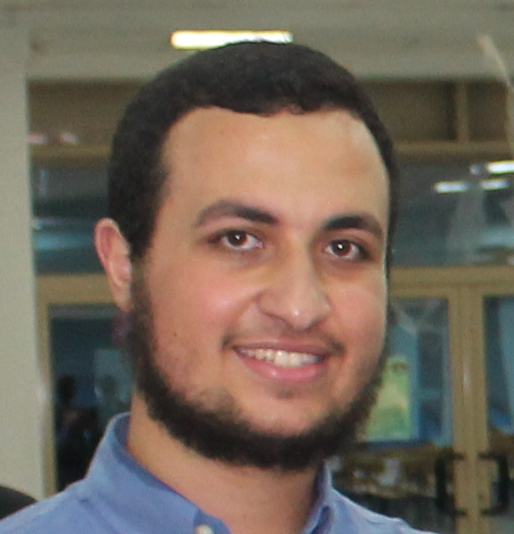
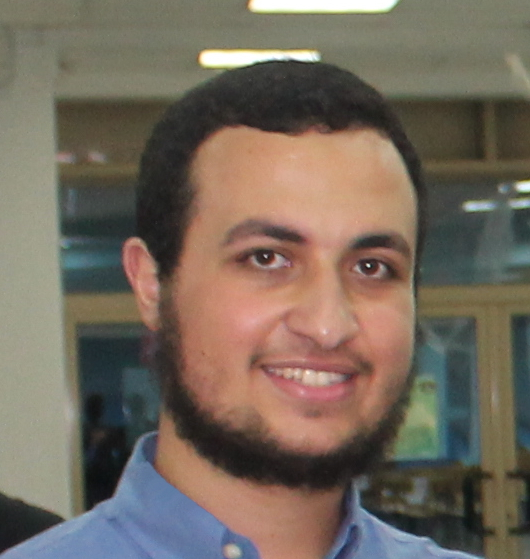
Change picture + remove bottom cards on main page

diff --git a/about.html b/about.html
@@ -1,146 +1,154 @@
 ---
-layout: page
-title: kady | about me
-permalink: /about/
+ layout: page
+ title: kady | about me
+ permalink: /about/
 ---
 
 <div class='row'>
-  <div id='about-card' class='col-md-12 shadow-z-2'>
-      <div class='col-md-4 about-info'>
-        <h3 class='sub-header'>Who ?</h5>
-          <p>
-            I am Abdelrahman Hesham Elkady, studying Computer science and engineering in the <a href="http://guc.edu.eg/" class="no-underline">German University in cairo</a>
-            , Juniour web and mobile developer, Mainly interested in Android development and python backended web apps .
-          </p>
-      </div>
-      <!-- /about-info -->
+    <div id='about-card' class='col-md-12 shadow-z-2'>
+        <div class='col-md-4 about-info'>
+            <h3 class='sub-header'>Who ?</h5>
+            <p>
+                Hello, I am Abdelrahman Hesham Elkady, studying Computer Science and Engineering in the
+                <a href="http://guc.edu.eg/" class="no-underline">German University in cairo</a>. Junior Web developer and
+                Native Android developer.
 
-      <div class='col-md-4 about-image'>
-        <img src='{{site.baseurl}}/assets/images/headshot.jpg' />
-      </div>
+            </p>
+        </div>
+        <!-- /about-info -->
 
-      <div class='col-md-4 about-info'>
-        <h3 class='sub-header'>Personal information</h5>
-          <table class='presonal-info-table'>
-            <tr>
-              <th>Name :</th>
-              <td>Abdelrahman Hesham Elkady</td>
-            </tr>
-            <tr>
-              <th>Age :</th>
-              <td id='age-row'></td>
-            </tr>
-            <tr>
-              <th>Hometown : </th>
-              <td>Cairo</td>
-            </tr>
-            <tr>
-              <th>E-mail : </th>
-              <td>elkadyabdelrahman@gmail.com</td>
-            </tr>
-          </table>
-      </div>
-  </div>
-  <!-- /about-card -->
+        <div class='col-md-4 about-image'>
+            <img src='{{site.baseurl}}/assets/images/headshot.jpg'/>
+        </div>
+
+        <div class='col-md-4 about-info'>
+            <h3 class='sub-header'>Personal information</h5>
+            <table class='presonal-info-table'>
+                <tr>
+                    <th>Name :</th>
+                    <td>Abdelrahman Hesham Elkady</td>
+                </tr>
+                <tr>
+                    <th>Age :</th>
+                    <td id='age-row'></td>
+                </tr>
+                <tr>
+                    <th>Hometown :
+                    </th>
+                    <td>Cairo</td>
+                </tr>
+                <tr>
+                    <th>E-mail :
+                    </th>
+                    <td>elkadyabdelrahman@gmail.com</td>
+                </tr>
+            </table>
+        </div>
+    </div>
+    <!-- /about-card -->
 </div>
 <!-- /row -->
 
 <div class='row section'>
-  <div class='col-md-6'>
-    <div class='icon-based-card shadow-z-1'>
-      <h1 class='text-center card-icon'>
-        <i class="material-icons icon-2x">work</i>
-      </h1>
+    <div class='col-md-6'>
+        <div class='icon-based-card shadow-z-1'>
+            <h1 class='text-center card-icon'>
+                <i class="material-icons icon-2x">work</i>
+            </h1>
 
-      <h3 class='card-title text-center'>
-        Hire me
-      </h3>
+            <h3 class='card-title text-center'>
+                Hire me
+            </h3>
 
-      <p class='card-description'>
-        WOW ! , You got a job for me ? Here is my resume, I will be very happy to get in contact with you
-      </p>
+            <p class='card-description'>
+                WOW ! , You got a job for me ? Here is my resume, I will be very happy to get in contact with you
+            </p>
 
-      <a href='{{site.baseurl}}/assets/files/resume.pdf' class='btn btn-success btn-icon'>
-        <span class='mdi-file-file-download'></span> My Resume</a>
+            <a href='{{site.baseurl}}/assets/files/resume.pdf' class='btn btn-success btn-icon'>
+                <span class='mdi-file-file-download'></span>
+                My Resume</a>
+
+        </div>
+    </div>
+
+    <div class='col-md-6'>
+        <div class='icon-based-card shadow-z-1'>
+            <h1 class='text-center card-icon'>
+                <i class="material-icons icon-2x">remove_red_eye</i>
+            </h1>
+
+            <h3 class='card-title text-center'>
+                Stalker ?
+            </h3>
+
+            <p class='card-description'>
+                Ok This is one section for stalkers ! , If you need more accounts/connections then take a look here !
+            </p>
+
+            <a href='javascript:void(0)' class='btn btn-success' data-toggle='modal' data-target='#stalk-modal'>
+                Stalk !</a>
+
+        </div>
+        <!-- /icon-based-card -->
 
     </div>
-  </div>
-
-  <div class='col-md-6'>
-    <div class='icon-based-card shadow-z-1'>
-      <h1 class='text-center card-icon'>
-        <i class="material-icons icon-2x">remove_red_eye</i>
-      </h1>
-
-      <h3 class='card-title text-center'>
-        Stalker ?
-      </h3>
-
-      <p class='card-description'>
-        Ok This is one section for stalkers ! , If you need more accounts/connections then take a look here !
-      </p>
-
-      <a href='javascript:void(0)' class='btn btn-success' data-toggle='modal' data-target='#stalk-modal'> Stalk !</a>
-
-    </div>
-    <!-- /icon-based-card -->
-
-  </div>
 </div>
 <!-- /row section-->
 
 <!-- Modal -->
 <div class='modal fade' id='stalk-modal' tabindex='-1' role='dialog' aria-labelledby='Label' aria-hidden='true'>
-  <div class='modal-dialog'>
-    <div class='modal-content'>
-      <div class='modal-header'>
-        <button type='button' class='close' data-dismiss='modal' aria-label='Close'>
-          <span aria-hidden='true'><i class='mdi-navigation-close'></i></span>
-        </button>
-        <h4 class='modal-title' id='myModalLabel'>Stalkers Appreciation !</h4>
-      </div>
-      <div class='modal-body'>
-        <div class='centered'>
-          <ul class='icon-list'>
-            <li class='list-icon'>
-              <a href='https://www.facebook.com/{{site.facebook_account}}'>
-                <img src='{{site.baseurl}}/assets/icons/facebook500.png' alt='facebook'>
-              </a>
-            </li>
+    <div class='modal-dialog'>
+        <div class='modal-content'>
+            <div class='modal-header'>
+                <button type='button' class='close' data-dismiss='modal' aria-label='Close'>
+                    <span aria-hidden='true'>
+                        <i class='mdi-navigation-close'></i>
+                    </span>
+                </button>
+                <h4 class='modal-title' id='myModalLabel'>Stalkers Appreciation !</h4>
+            </div>
+            <div class='modal-body'>
+                <div class='centered'>
+                    <ul class='icon-list'>
+                        <li class='list-icon'>
+                            <a href='https://www.facebook.com/{{site.facebook_account}}'>
+                                <img src='{{site.baseurl}}/assets/icons/facebook500.png' alt='facebook'>
+                            </a>
+                        </li>
 
-            <li class='list-icon'>
-              <a href='http://steamcommunity.com/id/{{site.steam_account}}'>
-                <img src='{{site.baseurl}}/assets/icons/steam.png' alt='steam'>
-              </a>
-            </li>
+                        <li class='list-icon'>
+                            <a href='http://steamcommunity.com/id/{{site.steam_account}}'>
+                                <img src='{{site.baseurl}}/assets/icons/steam.png' alt='steam'>
+                            </a>
+                        </li>
 
-            <li class='list-icon'>
-              <a href='https://instagram.com/{{site.instagram_account}}'>
-                <img src='{{site.baseurl}}/assets/icons/instagram.png' alt='instagram'>
-              </a>
-            </li>
+                        <li class='list-icon'>
+                            <a href='https://instagram.com/{{site.instagram_account}}'>
+                                <img src='{{site.baseurl}}/assets/icons/instagram.png' alt='instagram'>
+                            </a>
+                        </li>
 
-            <li class='list-icon'>
-              <a href='http://stackoverflow.com/users/{{site.stackoverflow_id}}'>
-                <img src='{{site.baseurl}}/assets/icons/stackoverflow.png' alt='stackoverflow'>
-              </a>
-            </li>
+                        <li class='list-icon'>
+                            <a href='http://stackoverflow.com/users/{{site.stackoverflow_id}}'>
+                                <img src='{{site.baseurl}}/assets/icons/stackoverflow.png' alt='stackoverflow'>
+                            </a>
+                        </li>
 
-            <li class='list-icon'>
-              <a href='https://www.reddit.com/user/{{site.reddit_account}}'>
-                <img src='{{site.baseurl}}/assets/icons/reddit.png' alt='stackoverflow'>
-              </a>
-            </li>
+                        <li class='list-icon'>
+                            <a href='https://www.reddit.com/user/{{site.reddit_account}}'>
+                                <img src='{{site.baseurl}}/assets/icons/reddit.png' alt='stackoverflow'>
+                            </a>
+                        </li>
 
-          </ul>
-          <!-- /icon-list -->
+                    </ul>
+                    <!-- /icon-list -->
+                </div>
+                <!-- /centered -->
+            </div>
+            <div class='modal-footer'>
+                <button type='button' class='btn btn-default' data-dismiss='modal'>Thanks</button>
+            </div>
         </div>
-        <!-- /centered -->
-      </div>
-      <div class='modal-footer'>
-        <button type='button' class='btn btn-default' data-dismiss='modal'>Thanks</button>
-      </div>
     </div>
-  </div>
 </div>
 <!-- /Modal -->

diff --git a/index.html b/index.html
@@ -23,68 +23,3 @@ title: kady
   <!-- /bg-overlay -->
 </div>
 <!-- /home-header -->
-<div class='section' id='home-main'>
-  <div class='container'>
-    <div class='row'>
-      <div class='col-md-4'>
-        <div class='icon-based-card shadow-z-1'>
-          <h1 class='text-center card-icon'>
-            <i class="material-icons icon-2x">code</i>
-          </h1>
-
-          <h3 class='text-center card-title'>
-            CODE
-          </h3>
-          <p class='card-description'>
-            I love diving into new programming languages, understanding the concepts behind different pieces of languages, comparing the languages implementation philosophy and discovering tips and tricks all around .
-            <br><br>Always trying different scenarios and checking what will the language respond with, that's how I feel that the language <strong>understands</strong> me !
-          </p>
-        </div>
-        <!-- /icon-based-card -->
-      </div>
-      <div class='col-md-4'>
-        <div class='icon-based-card shadow-z-1'>
-          <h1 class='text-center card-icon'>
-            <i class="material-icons icon-2x">cloud_done</i>
-          </h1>
-
-          <h3 class='text-center card-title'>
-            UPDATE
-          </h3>
-          <p class='card-description'>
-            Getting started with a new tool or technology could be a challenge .
-            I am always interested in new topics and technologies, keeping myself updated with the new technologies and tools helps me improving my skills.
-            <br><br>Getting inspired by others ideas and work helps me learn and discover new fields and improves my skills greatly .
-
-          </p>
-        </div>
-        <!-- /icon-based-card -->
-      </div>
-      <div class='col-md-4'>
-        <div class='icon-based-card shadow-z-1'>
-          <h1 class='text-center card-icon'>
-            <i class="material-icons icon-2x">share</i>
-          </h1>
-
-          <h3 class='text-center card-title'>
-            SHARE
-          </h3>
-          <p class='card-description'>
-            Always seeking to share the info I learn with other people and colleagues, I am trying to help others as much as possible . <br><br>Sharing and helping people connects me with great people around
-            and allows me to understand more about the problems that people face which increases my own social and technical skills .
-          </p>
-        </div>
-        <!-- /icon-based-card -->
-      </div>
-    </div>
-    <!-- /row -->
-  </div>
-  <!-- /container -->
-
-  <!-- stalking intel -->
-  <div class="centered" id="intel">
-    <h6>I appreciate stalkers and code geeks, if you are one you will find some stalking challenges here to keep you happy @_@</h6>
-  </div>
-
-</div>
-<!-- / #home-main -->

diff --git a/_layouts/default.html b/_layouts/default.html
@@ -4,17 +4,17 @@
   {% include head.html %}
 
   <body>
-  <div class="main-container">
+    <div class="main-container">
 
-    {% include nav.html %}
+      {% include nav.html %}
 
-    {{ content }}
+      {{ content }}
 
-    {% include footer.html %}
+      {% include footer.html %}
 
-    {% include bottom-scripts.html %}
+      {% include bottom-scripts.html %}
 
-  </div>
+    </div>
   </body>
 
 </html>

diff --git a/assets/_sass/components/_components.scss b/assets/_sass/components/_components.scss
@@ -11,6 +11,7 @@
 .profile-image {
   @include circular-image(250px);
   margin-top: 20vh;
+  object-fit: cover;
 }
 
 
